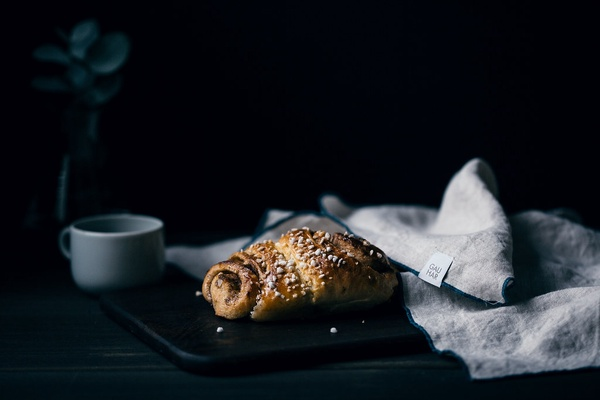
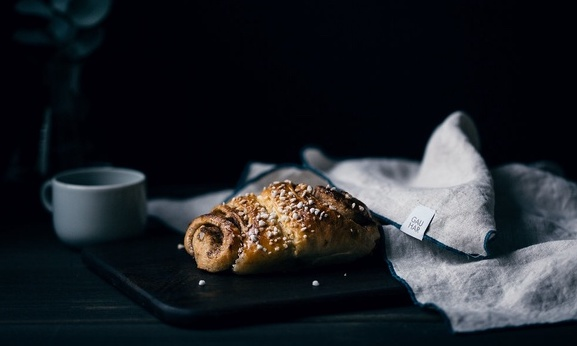
added about

diff --git a/about.html b/about.html
@@ -29,10 +29,20 @@
     </nav>
 
     <div class = "hero">
-        <img src="assets/home.jpeg" alt="home">
-        <div class="hero-content">
-            <h1>Bun Bun Bakery</h1>
-            <button><a href="products.html">Order Now</a></button>
+        <img src="assets/about.png" alt="about">
+        <div class="about-content">
+            <h1>About</h1>
+            <p>We are a small bakery that specializes in cinnamon rolls, 
+                from our famous original cinnamon rolls to a variety of artisan flavors. 
+                Our shop is located in Pittsburgh, PA and we ship fresh rolls anywhere in the 
+                Pittsburgh area. Visitors to our site should be able to buy cinnamon rolls by 
+                different flavors. </p>
+            
+                <p>Lorem ipsum dolor sit amet, consectetur adipiscing elit. Purus arcu consequat elit auctor vitae faucibus et ac sed. 
+                    Dignissim iaculis at nunc tincidunt tristique eget ut. 
+                    Quisque a purus fermentum aliquam volutpat scelerisque donec sit netus. 
+                    Tortor eu vel fusce turpis faucibus tortor, vel. 
+                    Volutpat id vel lectus dui. Sapien mattis ut aenean.</p>
         </div>
     </div>
        

diff --git a/style.css b/style.css
@@ -46,7 +46,7 @@ h1{
     padding-left: 10px;
 }
 
-#hero-bg{
+.hero img{
     width: 100%;
 }
 
@@ -79,6 +79,22 @@ h1{
 
 .hero-content h1{
     color: white;
+    font-size: 6vw;
+    margin: 0px;
+}
+
+.about-content{
+    text-align:center;
+    position: absolute;
+    top: 60%;
+    left: 50%;
+    transform: translate(-50%, -50%);
+    background-color: white;
+    padding: 3em;
+}
+
+.about-content h1{
+    color: black;
     font-size: 6vw;
     margin: 0px;
 }

diff --git a/products/gf.html b/products/gf.html
@@ -7,7 +7,7 @@
     <link rel="stylesheet" href="https://cdnjs.cloudflare.com/ajax/libs/font-awesome/4.7.0/css/font-awesome.min.css">
     <link href="https://fonts.googleapis.com/css2?family=Open+Sans:wght@300;400;700&family=Zeyada&display=swap" rel="stylesheet">
     <link rel="stylesheet" href="../style.css">
-    <title>Order-Original</title>
+    <title>Original (Gluten Free)</title>
 </head>
 <body>
     <nav class = "nav-bar"> 

diff --git a/products/blackberry.html b/products/blackberry.html
@@ -7,7 +7,7 @@
     <link rel="stylesheet" href="https://cdnjs.cloudflare.com/ajax/libs/font-awesome/4.7.0/css/font-awesome.min.css">
     <link href="https://fonts.googleapis.com/css2?family=Open+Sans:wght@300;400;700&family=Zeyada&display=swap" rel="stylesheet">
     <link rel="stylesheet" href="../style.css">
-    <title>Order-Original</title>
+    <title>Blackberry</title>
 </head>
 <body>
     <nav class = "nav-bar"> 

diff --git a/products/original.html b/products/original.html
@@ -7,7 +7,7 @@
     <link rel="stylesheet" href="https://cdnjs.cloudflare.com/ajax/libs/font-awesome/4.7.0/css/font-awesome.min.css">
     <link href="https://fonts.googleapis.com/css2?family=Open+Sans:wght@300;400;700&family=Zeyada&display=swap" rel="stylesheet">
     <link rel="stylesheet" href="../style.css">
-    <title>Order-Original</title>
+    <title>Original</title>
 </head>
 <body>
     <nav class = "nav-bar"> 

diff --git a/products/pumpkin.html b/products/pumpkin.html
@@ -7,7 +7,7 @@
     <link rel="stylesheet" href="https://cdnjs.cloudflare.com/ajax/libs/font-awesome/4.7.0/css/font-awesome.min.css">
     <link href="https://fonts.googleapis.com/css2?family=Open+Sans:wght@300;400;700&family=Zeyada&display=swap" rel="stylesheet">
     <link rel="stylesheet" href="../style.css">
-    <title>Order-Original</title>
+    <title>Pumpkin</title>
 </head>
 <body>
     <nav class = "nav-bar"> 

diff --git a/products/walnut.html b/products/walnut.html
@@ -7,7 +7,7 @@
     <link rel="stylesheet" href="https://cdnjs.cloudflare.com/ajax/libs/font-awesome/4.7.0/css/font-awesome.min.css">
     <link href="https://fonts.googleapis.com/css2?family=Open+Sans:wght@300;400;700&family=Zeyada&display=swap" rel="stylesheet">
     <link rel="stylesheet" href="../style.css">
-    <title>Order-Original</title>
+    <title>Walnut</title>
 </head>
 <body>
     <nav class = "nav-bar"> 

diff --git a/products/pecan.html b/products/pecan.html
@@ -7,7 +7,7 @@
     <link rel="stylesheet" href="https://cdnjs.cloudflare.com/ajax/libs/font-awesome/4.7.0/css/font-awesome.min.css">
     <link href="https://fonts.googleapis.com/css2?family=Open+Sans:wght@300;400;700&family=Zeyada&display=swap" rel="stylesheet">
     <link rel="stylesheet" href="../style.css">
-    <title>Order-Original</title>
+    <title>Pecan</title>
 </head>
 <body>
     <nav class = "nav-bar"> 
